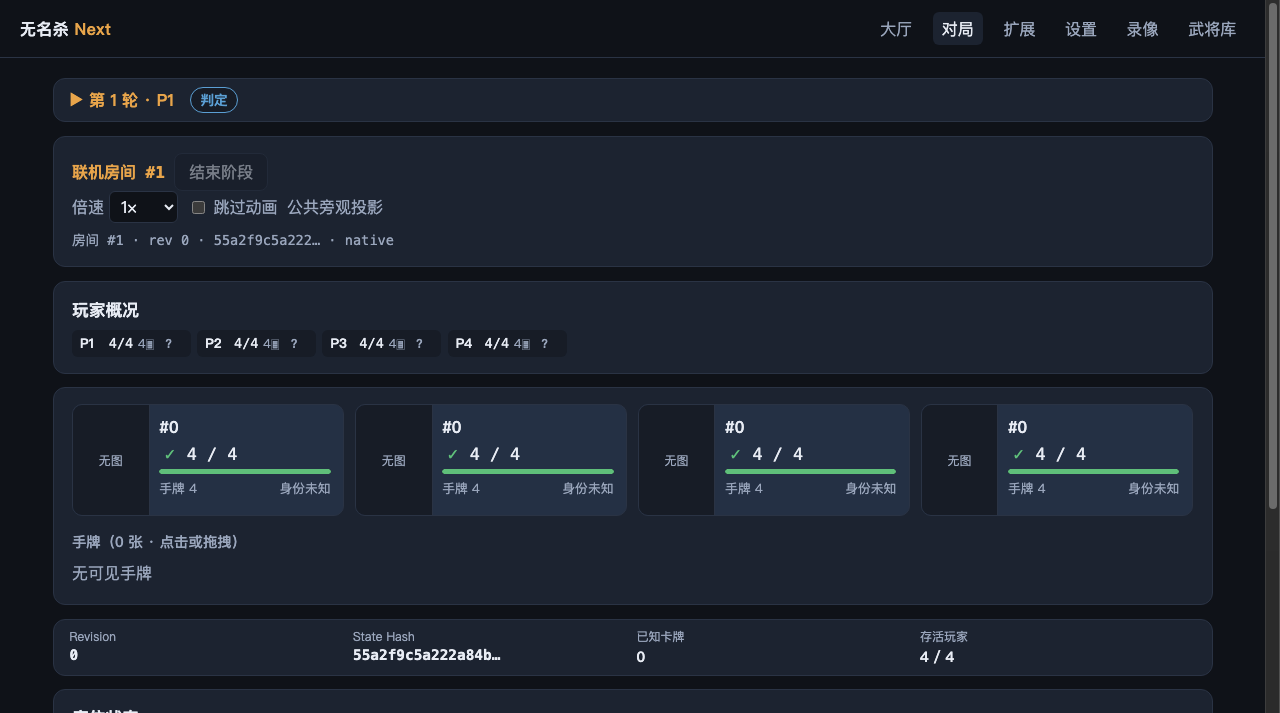
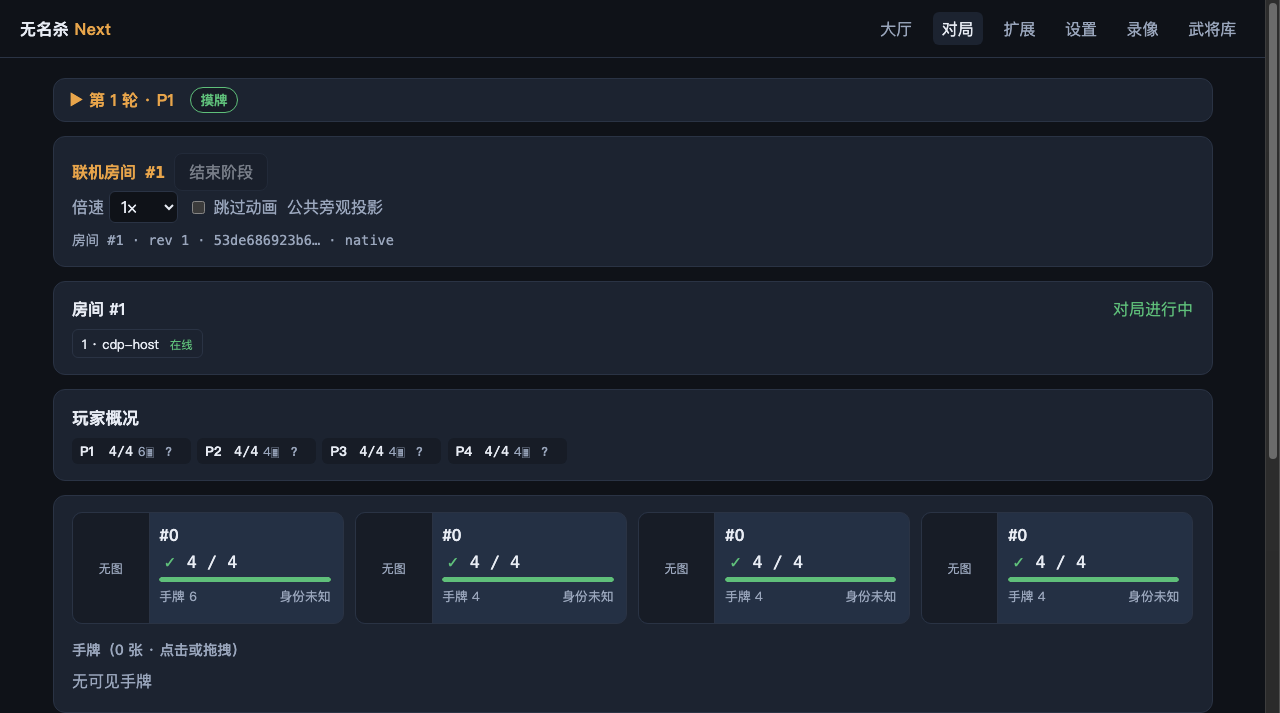
test(nc09): 多客户端命令一致性（入座者命令 → 旁观页面 rev 同步且不泄漏）
- 旁观脚本扩展：页面 A 点击「结束阶段」→ rev 0→1；**旁观页面 B rev 同步 0→1**（同一权威状态
  更新）；更新后旁观者仍为公开面（手牌 0 张、hasOwnHandCards=false）；双页面 console_errors 均为 []。
- 证据：spectate-drive-2.log、spectate-report.json、双方截图。
- 待办：断线（服务端侧）重连与过期令牌拒绝、两名入座玩家之间的一致性、联机存读档/录像、
  网络异常与错误展示、锦标赛面、平台与性能档位、服务端 SPA fallback。
- 行数门禁 8271 文件 ≤2000 行；临时服务端/静态服务已终止。

diff --git a/docs/operations/evidence/2026-10-18-nc09-browser-spectate/README.md b/docs/operations/evidence/2026-10-18-nc09-browser-spectate/README.md
@@ -39,3 +39,24 @@ node apps/web-client/scripts/nc09-browser-spectate.mjs http://127.0.0.1:8123/ \
 - [ ] 平台档位（Windows/Linux/Android/iOS）与性能档位
 - [ ] 服务端 SPA fallback（部署配置；本轮以根 URL 导航规避）
 - [ ] 本轮临时服务端/静态服务已终止
+
+## 4 追加：多客户端命令一致性（2026-10-18 同轮）
+
+页面 A（入座者）点击「结束阶段」→ 断言**旁观页面 B** 同步前进且不泄漏：
+
+| 判据 | 结果 |
+|---|---|
+| 页面 A rev | `0 → 1`（命令被权威服务端接受） |
+| **旁观页面 B rev** | **`0 → 1`**（收到同一权威状态更新） |
+| 旁观者更新后仍为公开面 | `手牌（0 张 · 点击或拖拽）`、`hasOwnHandCards: false` |
+| 双页面控制台 | `console_errors_host: []`、`console_errors_spectator: []` |
+
+证据：[spectate-drive-2.log](spectate-drive-2.log)、[spectate-report.json](spectate-report.json)、
+[host-screenshot.png](host-screenshot.png)、[spectator-screenshot.png](spectator-screenshot.png)。
+
+### 仍未完成（更新）
+
+- [ ] 断线（服务端侧）重连与过期/伪造令牌拒绝
+- [ ] 两名**入座玩家**之间的命令与投影一致性（本轮为「入座 + 旁观」）
+- [ ] 联机存读档/录像、网络异常（不可达/慢消费者/限流）与错误展示
+- [ ] 锦标赛面（manifest 固定/分块签名，原生未实现）、平台与性能档位、服务端 SPA fallback
